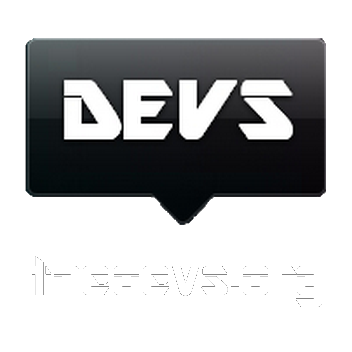
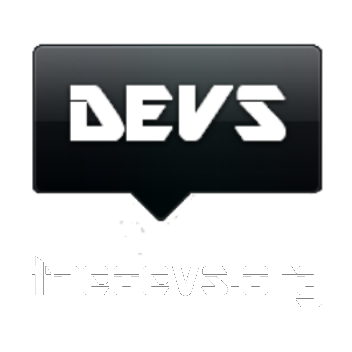
user interface adjustments, fixed posting from any page

Changed region(s): [[0.0625, 0.0938, 0.9375, 0.6562], [0.1562, 0.2188, 0.8438, 0.4062], [0.5938, 0.3125, 0.625, 0.3438]]

diff --git a/public/assets/general.css b/public/assets/general.css
@@ -1,39 +1,30 @@
 body{
-	background: #d9d9d9 url('../images/neue_bg.jpg') repeat-y;
-	background-size: 100%;
+	background: #000;
 }
 
 ._wrapper{
-	position: absolute;
 	width:100%;
-	min-height: 100%;
+	height: auto;
+	background-image: url('../images/neue_bg.jpg');
+	background-repeat: repeat-y;
+	background-size: 100%;
 	margin: 0px;
 	padding: 0px;
 	font-family: Verdana,Helvetica,Arial,sans-serif;
-	display: inline;
 	color: #fff;
 }
-._header{
-	/*display: inline-block;
-	width: 100%;*/
-}
-._container{
-	min-height: calc(100% - 65px);
-	background-color: transparent;
-	padding-bottom: 90px;
-}
-._container a{
+._header a{
 	color: aqua;
 }
+
 ._footer{
 	display: inline-block;
 	padding-bottom: 15px;
 	background-color: black;
 	border-top: 5px solid aqua;
 	width: 100%;
+	margin-top: 10px;
 	margin-bottom: -5px;
-	position: absolute;
-	bottom: 0px;
 }
 ._footer ._nav{
 	position: relative;
@@ -1042,9 +1033,6 @@ span.links{
 		width: auto;
 		margin: 100px 0px 0px 0px;
 	}
-	._footer{
-		min-height: 90px;
-	}
 	._footer ._nav{
 		margin-bottom: 30px;
 	}
@@ -1053,7 +1041,6 @@ span.links{
 	}
 	._footer ._follow {
 		margin-top: -15px;
-		margin-bottom: 30px;
 		float: left;
 	}
 }

diff --git a/app/models/All.php b/app/models/All.php
@@ -335,11 +335,7 @@ class All extends Eloquent {
 
 	public static function getRecords($path){
     	// return Request::path();
-    	if($path == '/'){
-			$records = All::getAllRecords();
-			return All::simplify($records);
-    	}
-    	elseif (in_array($path, array('devs', 'orgs', 'eventts', 'projects', 'stories'))) {
+    	if (in_array($path, array('devs', 'orgs', 'eventts', 'projects', 'stories'))) {
     		$records = All::getModelRecords($path);
     		return All::simplify($records);
     	}
@@ -352,7 +348,8 @@ class All extends Eloquent {
     	// elseif (substr($path, 0, 5) == 'devs/'){  // stripos($path, 'devs/')  == 0 !
     	// 	return All::getRecord('devs', Request::segment(2));
     	// }
-    	return $path;
+    	$records = All::getAllRecords();
+		return All::simplify($records);
     	// return stripos($path, 'devs/');
     }
     public static function simplify($records){

diff --git a/app/views/partials/alljs.blade.php b/app/views/partials/alljs.blade.php
@@ -459,7 +459,7 @@
     //   }
 
     // });
-    var postxhr = $.post(selected_model, all_data, function(resp) { //find an easier way to do this!
+    var postxhr = $.post('/'+selected_model, all_data, function(resp) { //find an easier way to do this!
       console.log('Success, Posted.');
       $('img.preload').hide()
       localStorage.thedevsorgstatus = 'posted'
@@ -677,7 +677,7 @@ $(document).ready(function(){
   })
 
   $('._step2').on('click', function(e){
-    if(map){e.preventDefault()}
+    'undefined' != typeof map ? e.preventDefault() : console.log('Please create from a different page.')
 
     $('._pin-map .modal-body').css('height', $(window).height()*0.7+'px')
     $('._pin-map .modal-dialog').css('margin', '0px')

diff --git a/app/views/layouts/master.blade.php b/app/views/layouts/master.blade.php
@@ -61,10 +61,10 @@
     <img class="social-logo hidden" 
     src="{{ isset($og_image) ? $og_image : asset('images/devs.png') }}">
     
+    <!-- Wrapper -->
     <div class="_wrapper">
         
-        <!-- Container -->
-        <div class="_container _middle">
+        <div class="_middle">
 
             @include('partials.header')
 
@@ -87,7 +87,7 @@
             data-width="450" data-show-faces="false"></div>
 
         </div>
-        <!-- ./ container -->
+        <!-- ./ middle stuff -->
 
         @include('partials.footer')
 
